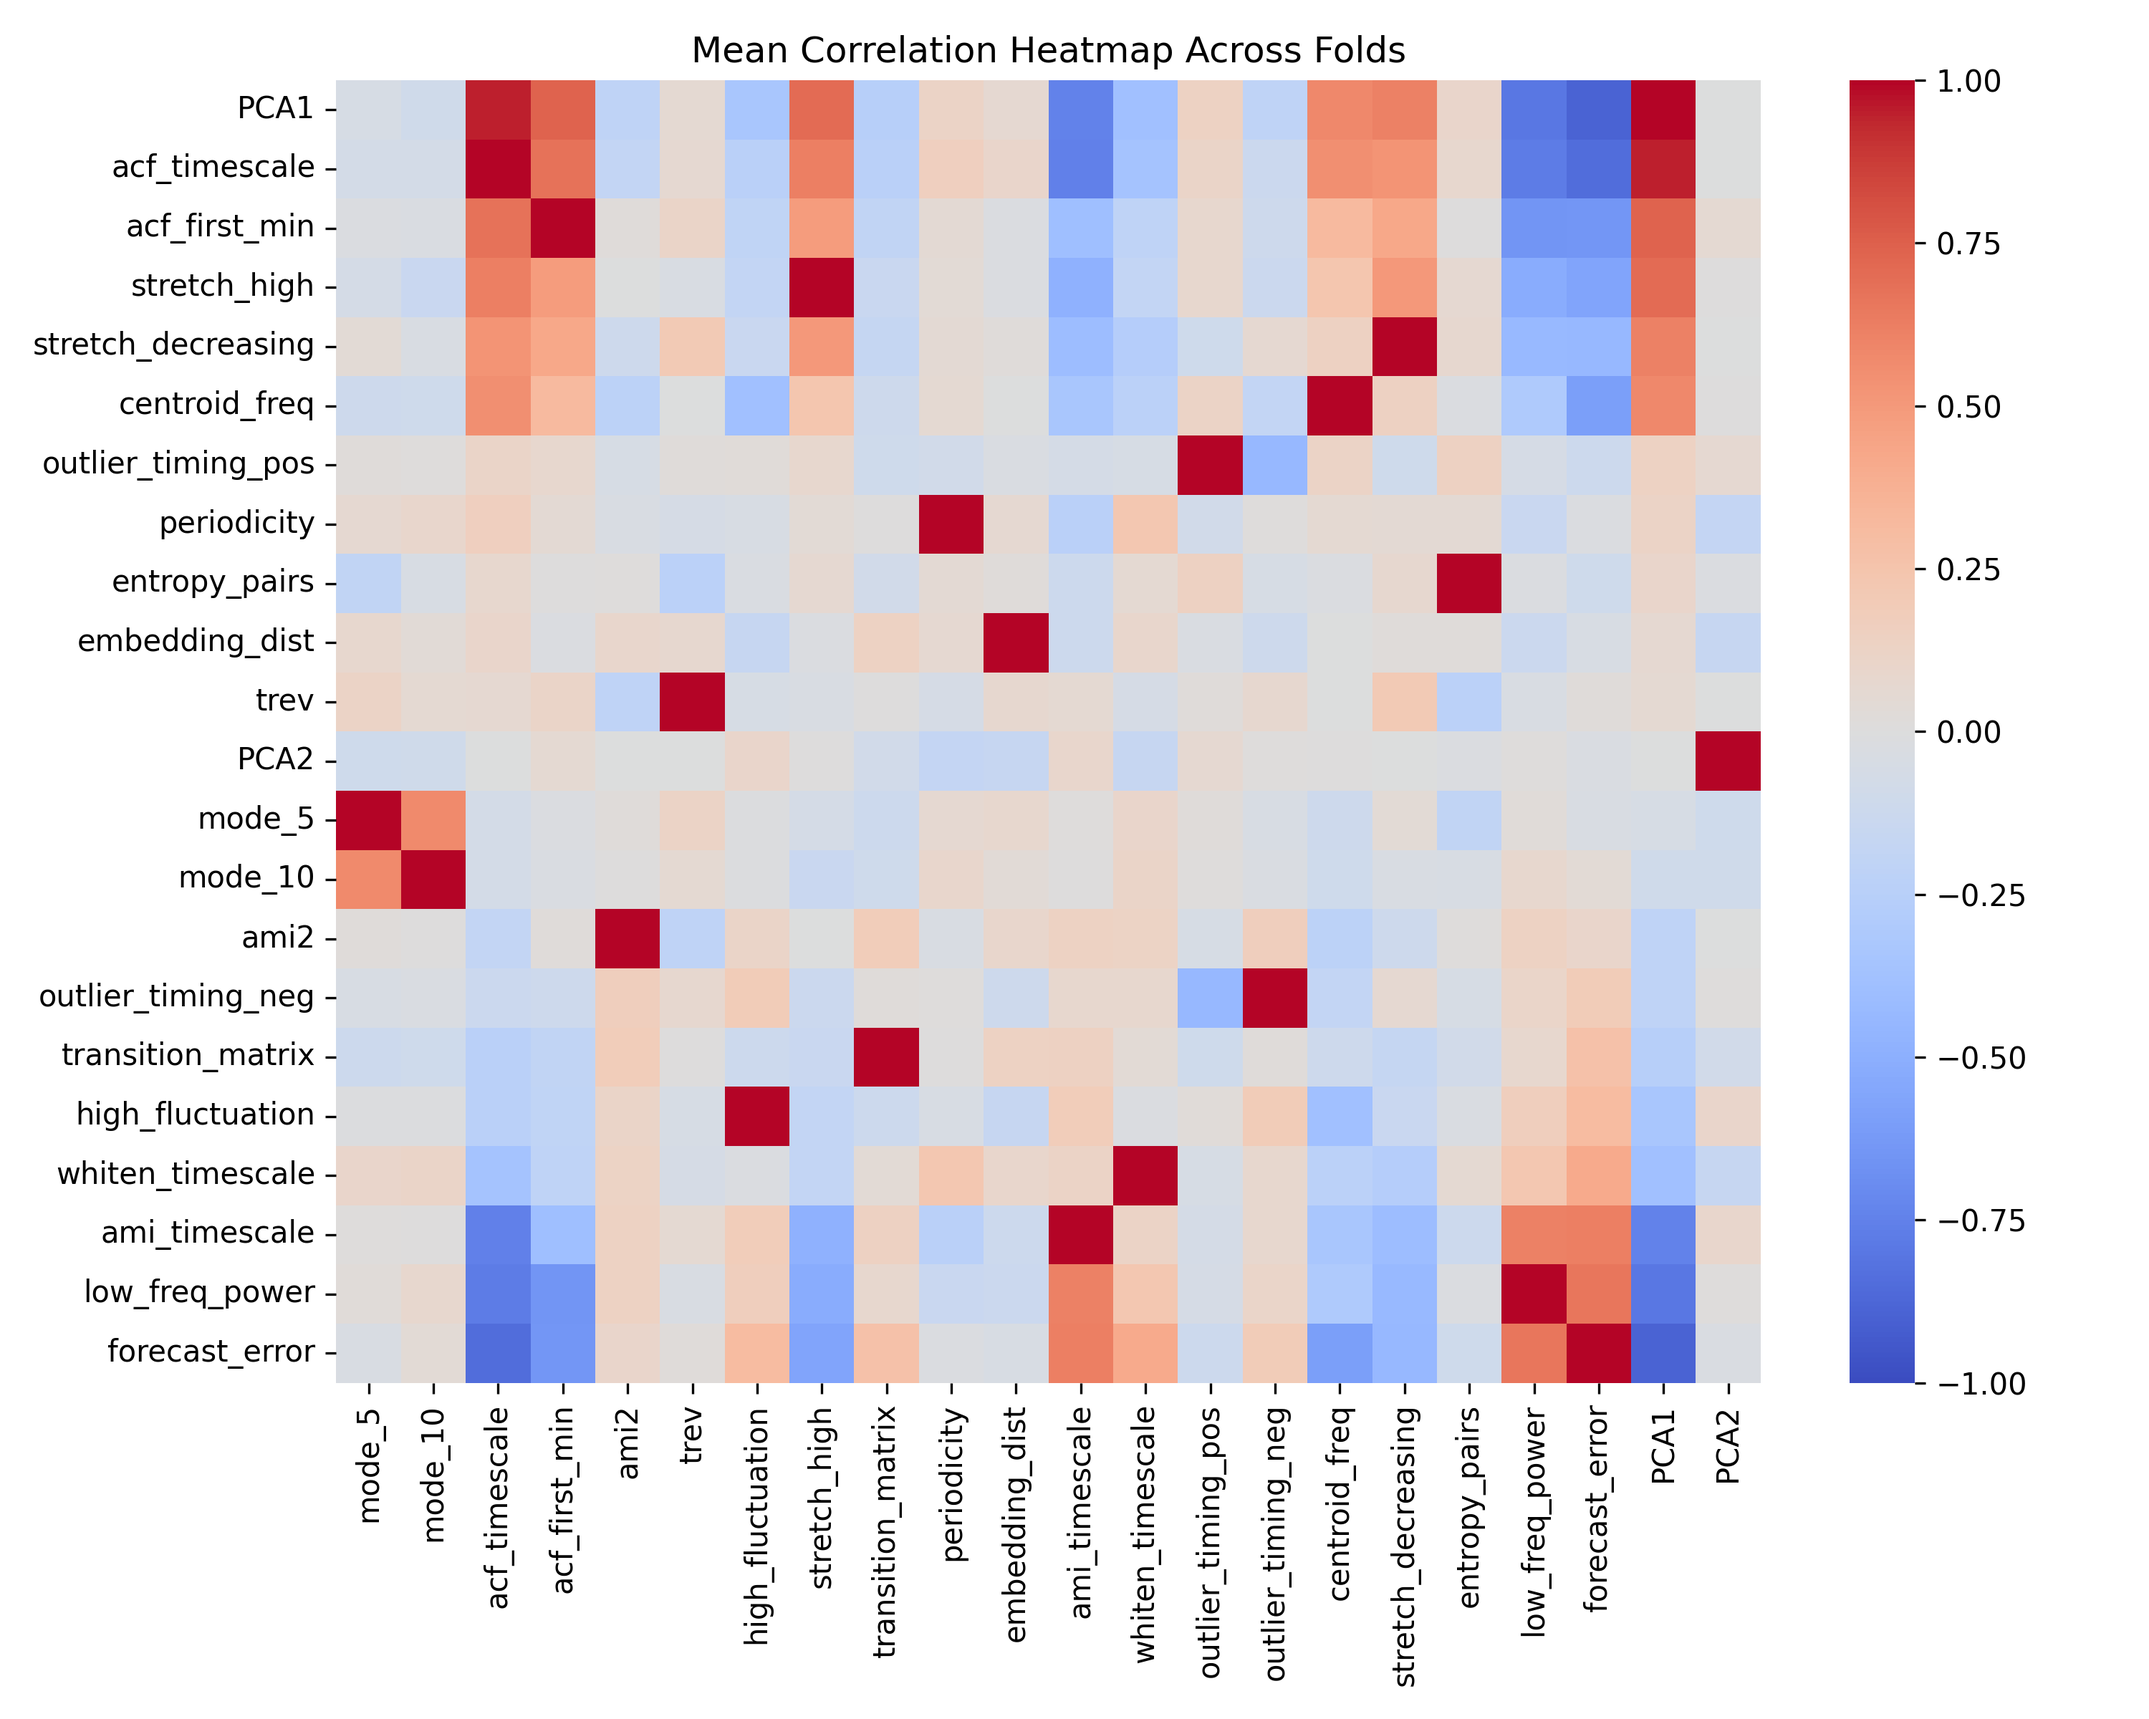
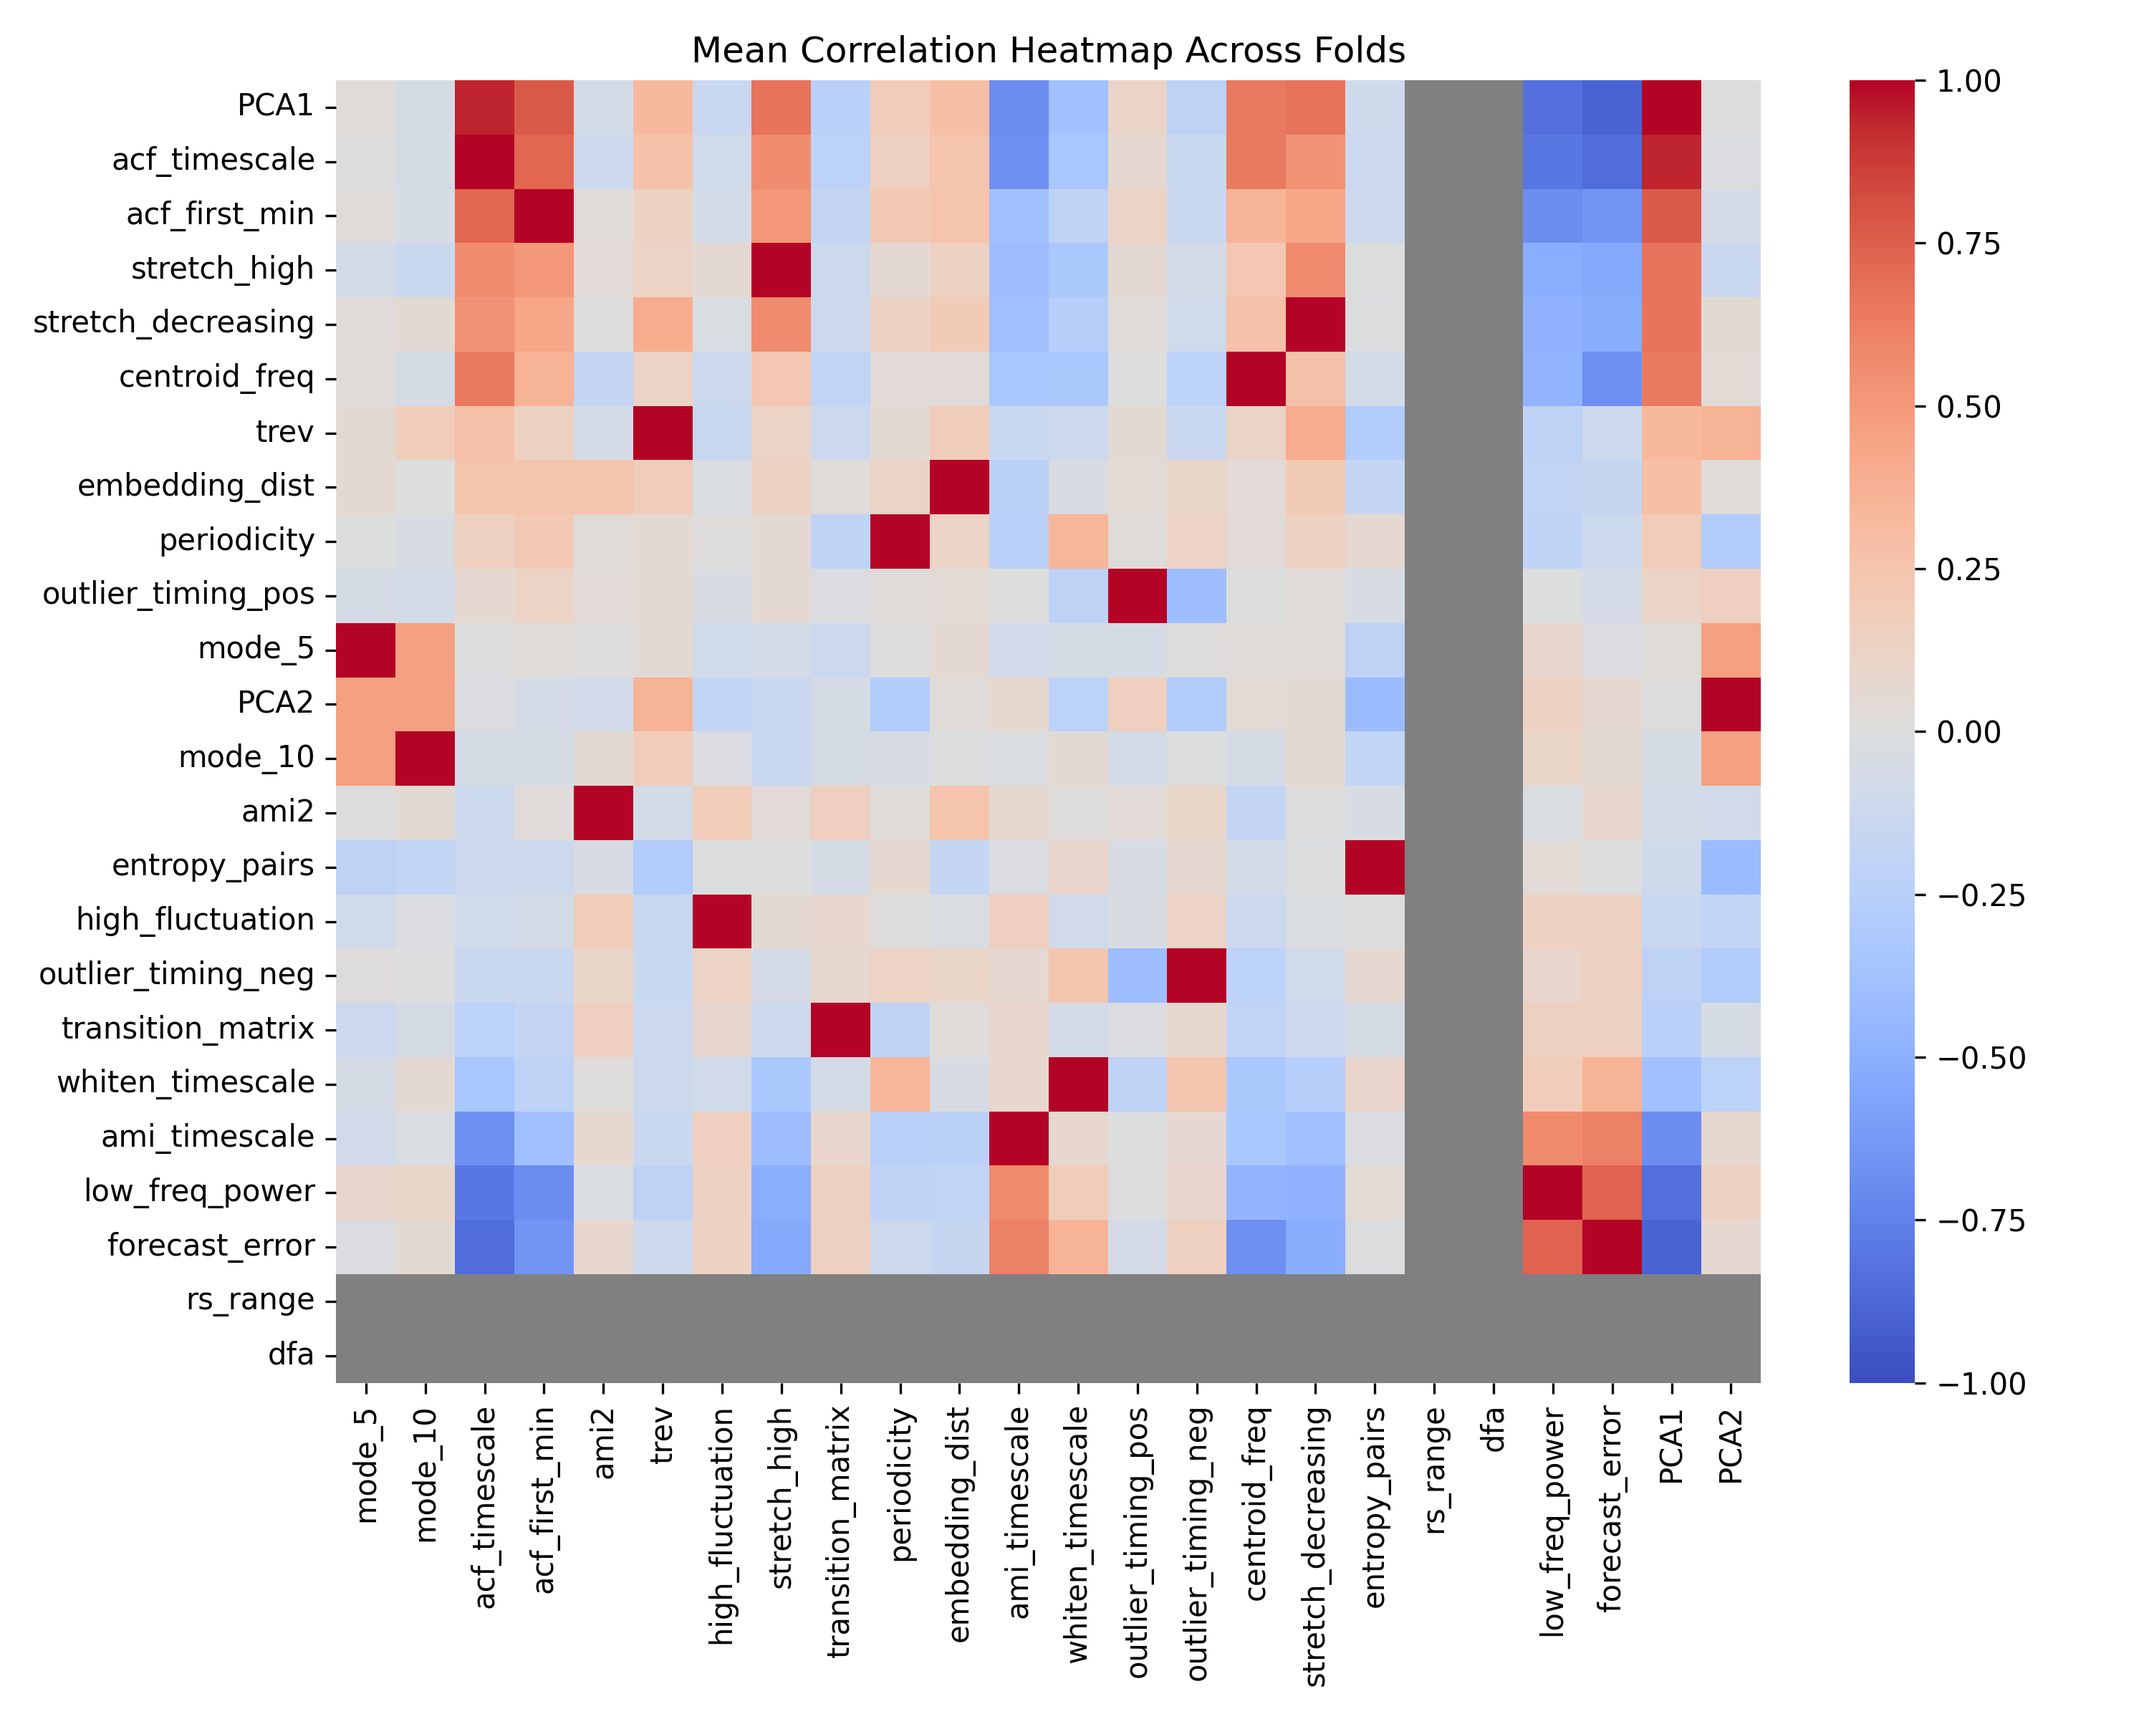
change color map of correlations plots

diff --git a/notebooks/correlations/cross_correlation_fhn_obs.py b/notebooks/correlations/cross_correlation_fhn_obs.py
@@ -3,11 +3,13 @@ import sys
 import numpy as np
 import pandas as pd
 import seaborn as sns
+import matplotlib as mpl
 from sklearn.svm import SVC
 from pycatch22 import catch22_all
 from matplotlib import pyplot as plt
 from sklearn.decomposition import PCA
 from sklearn.preprocessing import StandardScaler
+
 
 
 #plt.style.use('report.mplstyle')
@@ -21,22 +23,38 @@ from dataset import create_labeled_dataset, get_kfold_splits
 from features import extract_features
 from preprocessing import apply_pca
 
+cmap = mpl.colormaps.get_cmap("coolwarm").with_extremes(under="w")
+cmap.set_bad("gray")
 
 
-# Sine waves parameters
-fbase = 5
-f1 = 5.18
-nperiods = 3
-npoints = 7
+## sweep configuration
+b0 = 0.1
 
+b1 = 1.0
+db1 = 0.032
+b12 = b1 + db1
+dt = 0.1
+
+
+# step to subsampling
+pseudo_period = 30
+npp = 10          # change the number of points per period here!
+step = int(pseudo_period / npp / dt)
+
+epsilon = 0.2
+I = 0
 noise = 0.1
-samples = 100
 
-X, y = create_labeled_dataset(
-    [(0, 'sine', {'args': [fbase, noise, npoints, nperiods]}),
-    (1, 'sine', {'args': [f1, noise, npoints, nperiods]})],
-    n_samples_per_class=samples
-)
+trans = 100 # transient
+
+samples = 80
+
+
+X, y, t = create_labeled_dataset([
+    (0, 'fhn_obs', {'length':850, 'dt': 0.1, 'x0': [0,0], 'args':[b0, b1, epsilon, I, noise]}),
+    (1, 'fhn_obs', {'length':850, 'dt': 0.1, 'x0': [0,0], 'args':[b0, b12, epsilon, I, noise]})],
+    n_samples_per_class=samples, subsample_step = step, transient = trans, return_time=True
+    )
 
 splits = get_kfold_splits(X, y, n_splits=5, stratified=False)
 
@@ -67,13 +85,13 @@ for (frame, pca_data) in zip(x_feat, x_pca):
 mean_corr = sum(corr) / len(corr)
 
 # sort by PCA1 and drop NaN rows/columns
-mean_corr_sorted = mean_corr.sort_values(by='PCA1', ascending=False).dropna(axis=1, how='all').dropna(axis=0, how='all')
+mean_corr_sorted = mean_corr.sort_values(by='PCA1', ascending=False)#.dropna(axis=1, how='all').dropna(axis=0, how='all')
 
 plt.figure(figsize=(10, 8))
 plt.title('Mean Correlation Heatmap Across Folds')
-sns.heatmap(mean_corr_sorted, fmt=".2f", cmap='coolwarm', cbar=True)
+sns.heatmap(mean_corr_sorted, fmt=".2f", cmap=cmap, cbar=True, vmin=-1, vmax=1, mask=mean_corr_sorted.isnull())
 plt.tight_layout()
-plt.savefig('notebooks/correlation_heatmap_mean_sine.png', dpi=300)
+plt.savefig('notebooks/correlation_heatmap_mean_fhn_obs.png', dpi=300)
 plt.show()
 
 # now, we get the heatmap only for PCA1 and PCA2
@@ -81,7 +99,7 @@ mean_corr_pca = mean_corr.loc[['PCA1', 'PCA2'], [col for col in mean_corr_sorted
 mean_corr_pca = mean_corr_pca.sort_values(by='PCA1', ascending=False)
 plt.figure(figsize=(8, 4))
 plt.title('Mean Correlation with PCA Components')
-sns.heatmap(mean_corr_pca, fmt=".2f", cmap='coolwarm', cbar=True)
+sns.heatmap(mean_corr_pca, fmt=".2f", cmap=cmap, cbar=True, vmin=-1, vmax=1, mask=mean_corr_pca.isnull())
 plt.tight_layout()
-plt.savefig('notebooks/correlation_heatmap_mean_pca_sine.png', dpi=300)
+plt.savefig('notebooks/correlation_heatmap_mean_pca_fhn_obs.png', dpi=300)
 plt.show()

diff --git a/models/classification.py b/models/classification.py
@@ -2,6 +2,7 @@ import numpy as np
 from sklearn.metrics import roc_auc_score, accuracy_score
 from sklearn.svm import SVC
 import pandas as pd
+import time
 
 import sys
 import os
@@ -159,3 +160,84 @@ def run_experiment(X,y, splits, n_pca_components = 2, clf_fn = None):
         "features": feat,
         "features_pca": feat_pca
     }
+
+# Time for the run_experiment function. Get the time per configuration
+
+def time_experiment(X,y, splits, n_pca_components = 2, clf_fn = None):
+    """
+    Time the classification pipeline with four config
+    - Raw
+    - Raw + PCA
+    - Features
+    - Features + PCA
+
+    Parameters:
+    - X (np.ndarray): raw input singals
+    - y (np.ndarray): labels
+    - splits (list) of (train_idx, test_idx)
+    # - feature_fn (callable): function to extract features from raw signals
+    - n_pca_components (int): number of PCA components to keep
+    - clf_fn (callable): classifier function, if None, use default classifier
+
+    Returns:
+    - results (dict): dictionary containing times scores for each configuration
+    """
+
+    if clf_fn is None:
+        clf_fn = lambda: SVC(probability=True, random_state=42)
+    
+    raw, pca, feat, feat_pca = [], [], [], []
+
+    start_time = time.time()
+    for train_idx, test_idx  in splits:
+        x_train, x_test = X[train_idx], X[test_idx]
+        y_train, y_test = y[train_idx], y[test_idx]
+
+        # raw
+        clf = clf_fn()
+        _ = evaluate_single_fold(x_train, x_test, y_train, y_test, clf)
+        end_time = time.time()
+        raw.append(end_time - start_time)
+        start_time = end_time
+
+        # raw + pca
+        clf = clf_fn()
+        train_pca, pca_tf, scaler = apply_pca(x_train,n_components = n_pca_components)
+        test_pca = scaler.transform(x_test)
+        test_pca = pca_tf.transform(test_pca)
+
+        _ = evaluate_single_fold(train_pca, test_pca, y_train, y_test, clf)
+
+        end_time = time.time()
+        pca.append(end_time - start_time)
+        start_time = end_time
+
+        # features
+        clf = clf_fn()
+        X_feat = extract_features(X, return_array=True)
+        train_feat, test_feat = X_feat[train_idx], X_feat[test_idx]
+        _ = evaluate_single_fold(train_feat, test_feat, y_train, y_test, clf)
+
+        end_time = time.time()
+        feat.append(end_time - start_time)
+        start_time = end_time
+
+        # features + pca
+        clf = clf_fn()
+        train_feat_pca, pca_tf, scaler = apply_pca(train_feat, n_components=n_pca_components)
+        test_feat = test_feat.values if isinstance(test_feat, pd.DataFrame) else test_feat
+    
+        test_feat_pca = scaler.transform(test_feat)
+        test_feat_pca = pca_tf.transform(test_feat_pca)
+
+        _ = evaluate_single_fold(train_feat_pca, test_feat_pca, y_train, y_test, clf)
+
+        end_time = time.time()
+        feat_pca.append(end_time - start_time)
+        start_time = end_time
+
+    return {
+        "raw": raw,
+        "pca": pca,
+        "features": feat,
+        "features_pca": feat_pca}

diff --git a/notebooks/correlations/cross_correlation_sine.py b/notebooks/correlations/cross_correlation_sine.py
@@ -3,6 +3,7 @@ import sys
 import numpy as np
 import pandas as pd
 import seaborn as sns
+import matplotlib as mpl
 from sklearn.svm import SVC
 from pycatch22 import catch22_all
 from matplotlib import pyplot as plt
@@ -22,35 +23,24 @@ from features import extract_features
 from preprocessing import apply_pca
 
 
-
-## sweep configuration
-b0 = 0.1
-
-b1 = 1.0
-db1 = 0.178
-b12 = b1 + db1
-dt = 0.1
+cmap = mpl.colormaps.get_cmap("coolwarm").with_extremes(under="w")
+cmap.set_bad("gray")
 
 
-# step to subsampling
-pseudo_period = 30
-npp = 10          # change the number of points per period here!
-step = int(pseudo_period / npp / dt)
+# Sine waves parameters
+fbase = 5
+f1 = 5.18
+nperiods = 3
+npoints = 7
 
-epsilon = 0.2
-I = 0
 noise = 0.1
+samples = 100
 
-trans = 100 # transient
-
-samples = 80
-
-
-X, y, t = create_labeled_dataset([
-    (0, 'fhn', {'length':850, 'dt': 0.1, 'x0': [0,0], 'args':[b0, b1, epsilon, I, noise]}),
-    (1, 'fhn', {'length':850, 'dt': 0.1, 'x0': [0,0], 'args':[b0, b12, epsilon, I, noise]})],
-    n_samples_per_class=samples, subsample_step = step, transient = trans, return_time=True
-    )
+X, y = create_labeled_dataset(
+    [(0, 'sine', {'args': [fbase, noise, npoints, nperiods]}),
+    (1, 'sine', {'args': [f1, noise, npoints, nperiods]})],
+    n_samples_per_class=samples
+)
 
 splits = get_kfold_splits(X, y, n_splits=5, stratified=False)
 
@@ -80,14 +70,16 @@ for (frame, pca_data) in zip(x_feat, x_pca):
 
 mean_corr = sum(corr) / len(corr)
 
+
+
 # sort by PCA1 and drop NaN rows/columns
-mean_corr_sorted = mean_corr.sort_values(by='PCA1', ascending=False).dropna(axis=1, how='all').dropna(axis=0, how='all')
+mean_corr_sorted = mean_corr.sort_values(by='PCA1', ascending=False)#.dropna(axis=1, how='all').dropna(axis=0, how='all')
 
 plt.figure(figsize=(10, 8))
 plt.title('Mean Correlation Heatmap Across Folds')
-sns.heatmap(mean_corr_sorted, fmt=".2f", cmap='coolwarm', cbar=True, vmin=-1, vmax=1)
+sns.heatmap(mean_corr_sorted, fmt=".2f", cmap=cmap, cbar=True, mask=mean_corr_sorted.isnull(), vmin=-1, vmax=1)
 plt.tight_layout()
-plt.savefig('notebooks/correlation_heatmap_mean_fhn.png', dpi=300)
+plt.savefig('notebooks/correlation_heatmap_mean_sine.png', dpi=300)
 plt.show()
 
 # now, we get the heatmap only for PCA1 and PCA2
@@ -95,7 +87,7 @@ mean_corr_pca = mean_corr.loc[['PCA1', 'PCA2'], [col for col in mean_corr_sorted
 mean_corr_pca = mean_corr_pca.sort_values(by='PCA1', ascending=False)
 plt.figure(figsize=(8, 4))
 plt.title('Mean Correlation with PCA Components')
-sns.heatmap(mean_corr_pca, fmt=".2f", cmap='coolwarm', cbar=True)
+sns.heatmap(mean_corr_pca, fmt=".2f", cmap=cmap, cbar=True, vmin=-1, vmax=1, mask=mean_corr_pca.isnull())
 plt.tight_layout()
-plt.savefig('notebooks/correlation_heatmap_mean_pca_fhn.png', dpi=300)
+plt.savefig('notebooks/correlation_heatmap_mean_pca_sine.png', dpi=300)
 plt.show()

diff --git a/notebooks/time_fhn.py b/notebooks/time_fhn.py
@@ -1,0 +1,49 @@
+import os
+import sys
+import pickle
+import numpy as np
+import pandas as pd
+
+sys.path.append(os.path.abspath("./models"))
+sys.path.append(os.path.abspath("./data"))
+
+from classification import time_experiment
+from dataset import create_labeled_dataset, get_kfold_splits
+
+## sweep configuration
+b0 = 0.1
+
+b1 = 1.0
+db1 = 0.032
+b12 = b1 + db1
+dt = 0.1
+
+
+# step to subsampling
+pseudo_period = 30
+npp = 10          # change the number of points per period here!
+step = int(pseudo_period / npp / dt)
+
+epsilon = 0.2
+I = 0
+noise = 0.1
+
+trans = 100 # transient
+
+samples = 80
+
+
+X, y, t = create_labeled_dataset([
+    (0, 'fhn_obs', {'length':850, 'dt': 0.1, 'x0': [0,0], 'args':[b0, b1, epsilon, I, noise]}),
+    (1, 'fhn_obs', {'length':850, 'dt': 0.1, 'x0': [0,0], 'args':[b0, b12, epsilon, I, noise]})],
+    n_samples_per_class=samples, subsample_step = step, transient = trans, return_time=True
+    )
+
+splits = get_kfold_splits(X, y, n_splits=5, stratified=False)
+results = time_experiment(X, y, splits)
+
+print("Timing Results (seconds):")
+print(f"Raw: {np.mean(results['raw']):.4f} ± {np.std(results['raw']):.4f}")
+print(f"Raw + PCA: {np.mean(results['pca']):.4f} ± {np.std(results['pca']):.4f}")
+print(f"Features: {np.mean(results['features']):.4f} ± {np.std(results['features']):.4f}")
+print(f"Features + PCA: {np.mean(results['features_pca']):.4f} ± {np.std(results['features_pca']):.4f}")

diff --git a/notebooks/time_sine.py b/notebooks/time_sine.py
@@ -1,0 +1,37 @@
+import os
+import sys
+import pickle
+import numpy as np
+import pandas as pd
+
+sys.path.append(os.path.abspath("./models"))
+sys.path.append(os.path.abspath("./data"))
+
+from classification import time_experiment
+from dataset import create_labeled_dataset, get_kfold_splits
+
+fbase = 1
+df = 0.18
+f1 = fbase + df
+
+npoints = 7
+nperiods = 3
+
+noise = 0.1
+
+samples = 100
+
+X,y = create_labeled_dataset(
+    [(0, 'sine', {'args': [fbase, 0.1, npoints, nperiods]}),
+     (1, 'sine', {'args': [f1, 0.1, npoints, nperiods]})],
+    n_samples_per_class=samples
+)
+
+splits = get_kfold_splits(X, y, n_splits=5, stratified=False)
+results = time_experiment(X, y, splits)
+
+print("Timing Results (seconds):")
+print(f"Raw: {np.mean(results['raw']):.4f} ± {np.std(results['raw']):.4f}")
+print(f"Raw + PCA: {np.mean(results['pca']):.4f} ± {np.std(results['pca']):.4f}")
+print(f"Features: {np.mean(results['features']):.4f} ± {np.std(results['features']):.4f}")
+print(f"Features + PCA: {np.mean(results['features_pca']):.4f} ± {np.std(results['features_pca']):.4f}")

diff --git a/features/features.py b/features/features.py
@@ -16,7 +16,7 @@ def extract_features(signals, return_array = False):
     - pd.Dataframe or np.ndarray: Feature matrix (n_signals x n_features)
     """
     feat_rows = []
-    cols_names = []
+    cols_nameEs = []
     for i, signal in enumerate(signals):
         features = catch22_all(signal, short_names=True)
         feat_rows.append(features['values'])

diff --git a/sweeps/sinusoidal/frequency_sine.py b/sweeps/sinusoidal/frequency_sine.py
@@ -19,7 +19,7 @@ dfreq = [deltaf *  i for i in range(0, 52, 2)]
 npoints = 7
 nperiods = 3
 
-noise = 0.2
+noise = 0.1
 samples = 100
 
 ## Output directory
